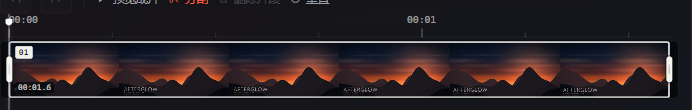
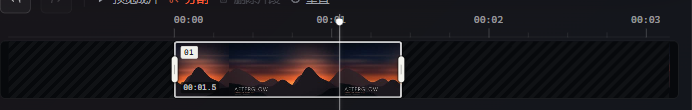
fix: 标尺跟随入点且允许向外恢复
恢复源时间轴空间，裁剪手柄可向外拖动恢复内容；时间标尺 00:00 仍对齐第一个保留片段左端，后续标签随入点前移。修复浮点导致的重复秒标签。版本提升到 v1.7.3。

diff --git a/renderer/app.js b/renderer/app.js
@@ -746,11 +746,8 @@ function paintTrimPlayhead() {
 }
 
 function clipView(file) {
-  const clips = Array.isArray(file?.clips) && file.clips.length ? file.clips : ensureClips(file)
-  if (!clips.length) return { start: 0, end: 0, duration: 0 }
-  const start = clips[0].start
-  const end = clips[clips.length - 1].end
-  return { start, end, duration: Math.max(0.001, end - start) }
+  const duration = Number(file?.info?.duration) || 0
+  return { start: 0, end: duration, duration }
 }
 
 function nearestClipTime(file, time) {
@@ -840,28 +837,29 @@ function redoClip() {
   restoreClipState(file, state)
 }
 
-function timelineRulerHtml(duration) {
+function timelineRulerHtml(duration, offset = 0) {
   if (!(duration > 0)) return ''
-  const target = duration / 6
+  const span = Math.max(0.001, duration - offset)
+  const target = span / 6
   const steps = [1, 2, 5, 10, 15, 30, 60, 120, 300, 600]
   const major = steps.find((step) => step >= target) || Math.ceil(target / 600) * 600
   const minor = major / 4
   const ticks = []
   const labels = []
-  const count = Math.ceil(duration / minor)
+  const count = Math.ceil(span / minor)
   for (let index = 0; index <= count; index += 1) {
-    const time = index * minor
+    const time = offset + index * minor
     if (time > duration + 0.001) break
     const left = Math.min(100, (time / duration) * 100)
     const isMajor = index % 4 === 0
     ticks.push(`<span class="clip-ruler-tick ${isMajor ? 'is-major' : ''}" style="left:${left}%"></span>`)
     if (isMajor) {
-      labels.push(`<span class="clip-ruler-label ${time < 0.01 ? 'is-first' : ''}" style="left:${left}%">${formatClock(time)}</span>`)
+      labels.push(`<span class="clip-ruler-label ${index === 0 ? 'is-first' : ''}" style="left:${left}%">${formatClock(Math.round(time - offset))}</span>`)
     }
   }
-  const lastTick = count * minor
+  const lastTick = offset + count * minor
   if (duration - lastTick > minor * 0.2) {
-    labels.push(`<span class="clip-ruler-label is-last" style="left:100%">${formatClock(duration)}</span>`)
+    labels.push(`<span class="clip-ruler-label is-last" style="left:100%">${formatClock(Math.round(duration - offset))}</span>`)
   }
   return `<div class="clip-ruler" aria-hidden="true">${labels.join('')}${ticks.join('')}</div>`
 }
@@ -919,7 +917,7 @@ function renderTrimUI() {
       return `<span class="clip-gap" style="left:${left}%;width:${Math.max(0, pct(gap.end) - left)}%"></span>`
     })
     .join('')
-  const rulerHtml = timelineRulerHtml(view.duration)
+  const rulerHtml = timelineRulerHtml(view.duration, clips[0]?.start || 0)
 
   slot.innerHTML = `<div class="trim-panel clip-editor">
     <div class="trim-head">

diff --git a/README.md b/README.md
@@ -73,7 +73,7 @@ E:\FrameFerry\FrameFerry.exe
 
 ### 2. 分割与剪辑
 
-每个素材维护一组按时间排序的片段：初始为一条完整片段。时间轴上的白色竖线是播放头，同时也是分割位置：可以拖动白线，或点击时间轴定位，再按 `Ctrl+B`、双击白线或点「分割」。切点会留下一条白色分割线，相邻片段在视觉上连续。时间标尺以第一个保留片段为 00:00，到最后一个保留片段结束；裁掉头部/尾部后，后续时间整体前移，分割线只停留在保留片段内。选中任意片段后，两端会出现白色圆角手柄；拖动时显示当前片段时长气泡，可以继续裁剪，或点「删除片段」移除。拖动两端时只移动片段边界，白色播放头/分割线保持原位，不会跟着鼠标跑。选中状态只用白色描边和手柄标识，不再给画面加黄色半透明遮罩，缩略图保持原亮度；被删除的区域用深色斜纹填充。
+每个素材维护一组按时间排序的片段：初始为一条完整片段。时间轴上的白色竖线是播放头，同时也是分割位置：可以拖动白线，或点击时间轴定位，再按 `Ctrl+B`、双击白线或点「分割」。切点会留下一条白色分割线，相邻片段在视觉上连续。时间标尺的 00:00 对齐第一个保留片段左端，后续标签相对它前移；时间轴仍保留源素材的左右空间，方便把两端手柄向外拖回去恢复裁剪。分割线只停留在保留片段内。选中任意片段后，两端会出现白色圆角手柄；拖动时显示当前片段时长气泡，可以继续裁剪，或点「删除片段」移除。拖动两端时只移动片段边界，白色播放头/分割线保持原位，不会跟着鼠标跑。选中状态只用白色描边和手柄标识，不再给画面加黄色半透明遮罩，缩略图保持原亮度；被删除的区域用深色斜纹填充。
 
 渲染层把片段数组交给主进程。单片段的导出走简洁的 `-ss / -t` 路径；多片段则用 FFmpeg `filter_complex`：
 

diff --git a/docs/TEST_REPORT.md b/docs/TEST_REPORT.md
@@ -140,8 +140,9 @@
 | 历史按钮 | 初始 undo/redo 均禁用；操作后对应按钮启用，60 步上限，新编辑清空 redo |
 | 分割线限制在保留段 | 片段 [0.9,2.5]，点击 90% 空白处吸附到 2.5s；加载时从 0.9s 开始，不落在已删除头部 |
 | 裁剪后回到有效段 | 拖左端到 1.68s 后，播放头仍在保留段内；不进入斜纹区域 |
-| 标尺随保留段前移 | 片段 [0.9,2.5] 的标尺从 00:00 对齐左端，到 00:01.6；00:01 位于 62.5% |
-| 重定基准后分割 | 源时间 1.5s 分割，两个片段块为 0–37.5% / 37.5–100%，标尺不变 |
+| 标尺随保留段前移 | 片段 [2.1,2.5] 的 00:00 对齐片段左端（50%），00:01 在 73.8%，00:02 在 97.6% |
+| 手柄向外恢复 | 左端从 2.1s 拖回 1.05s，00:00 从 50% 移到 25%，后续标签同步变为 00:01/00:02/00:03 |
+| 时间轴保留源空间 | 片段缩短后左右仍保留源视频空间，两端手柄不贴死时间轴边缘 |
 | 分割与删除 MP4 | 在 3s、7s 分割后删除中间段，输出 6.000s，音画均保留 |
 | 分割片段再裁剪 | 把首段出点从 3.0s 拖到 2.5s，输出 5.500s |
 | 分割后 GIF | 保留 0–3s / 7–10s，输出 75 帧 / 6s / 全部 80ms |
